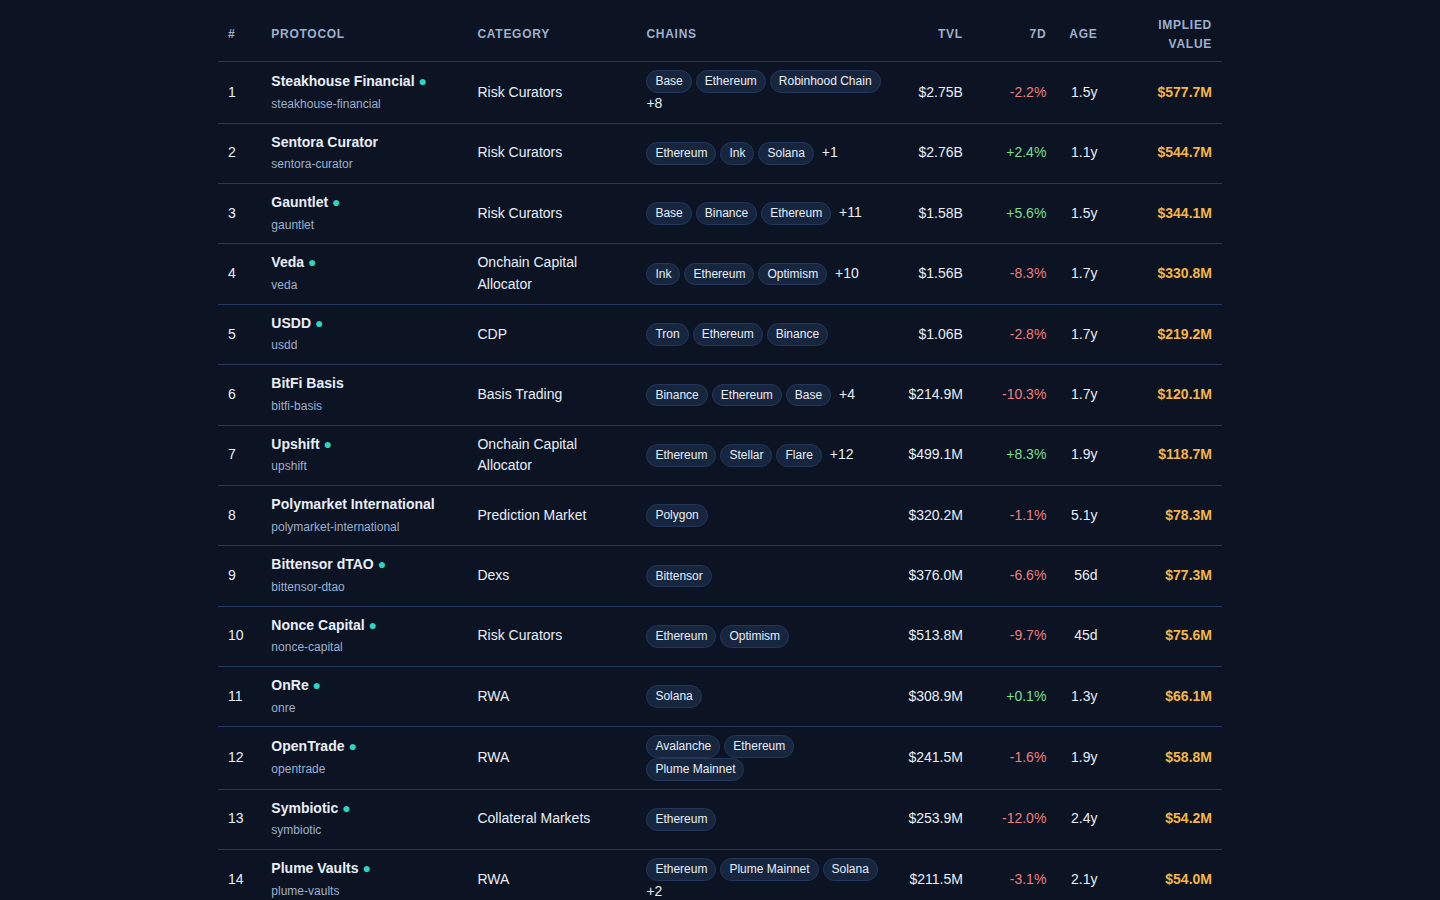
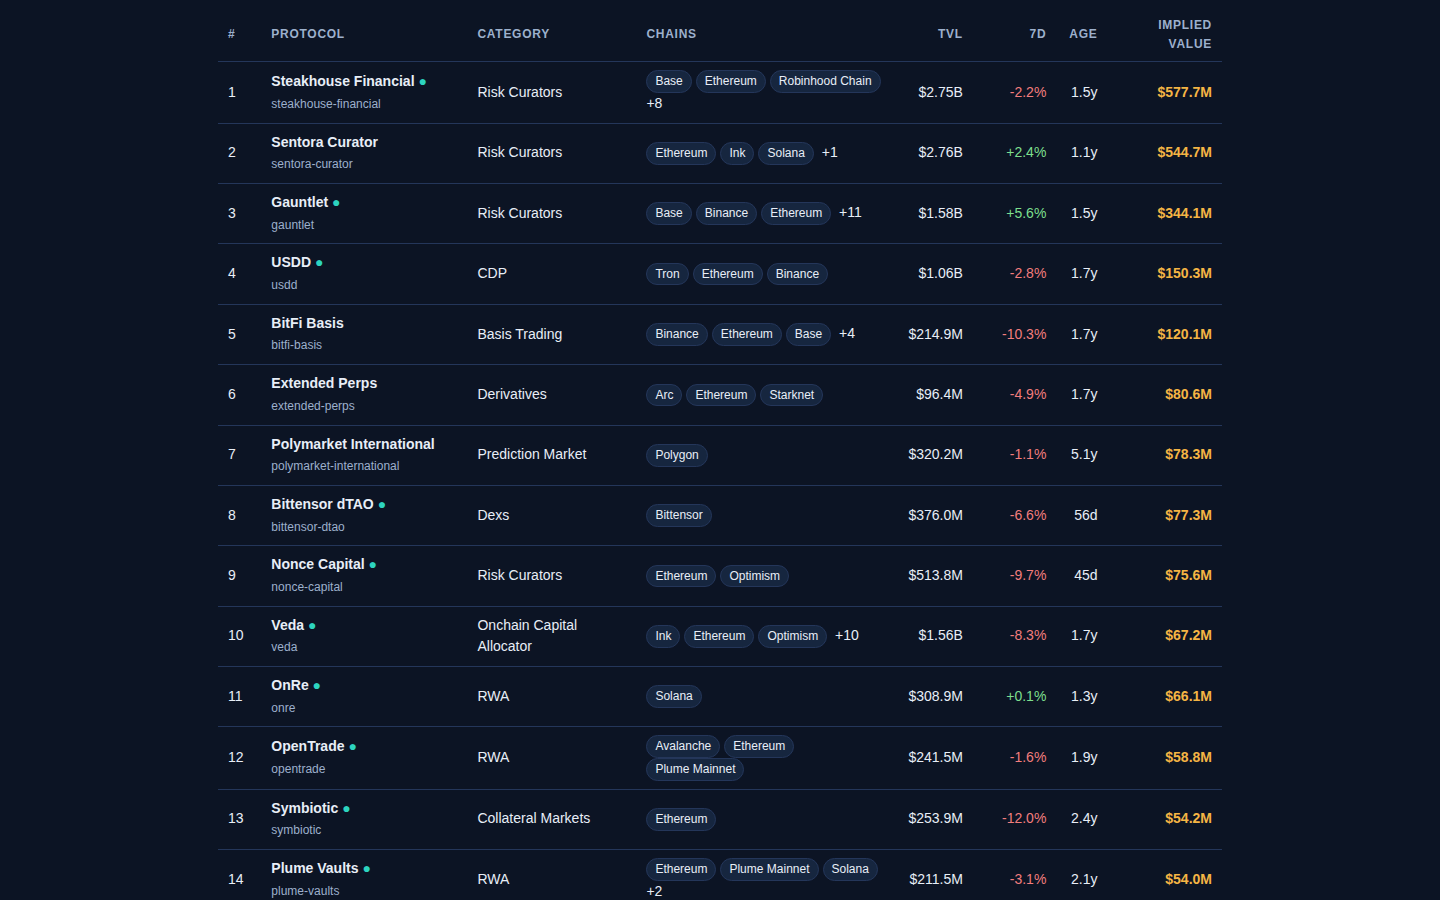
radar-3: exclude Cross Chain Bridge, calibrate with 2 peers, fix sort validation and coverage stats
- EXCLUDED_CATEGORIES gains Cross Chain Bridge (Circle Gateway ranked #21
  against the entry's own stated rule); board 198 -> 197 rows, no bridge
  category left on the board
- category_min_peers 4 -> 2: 22 of 35 categories now price off their own
  live-token median instead of 10; fallback rows 112 -> 65 of the board
- CalibrationRow carries raw_multiple; the dashboard shows a measured
  median clamped to [0.05, 1.00] as raw -> applied
- farm plans: CDP mints against collateral, uncollateralized lending no
  longer borrows against a supply that does not exist, Yield Aggregator
  takes the vault action, and Farm / CeDeFi / Anchor BTC / OTC / Card /
  Decentralized BTC / Liquidity Manager get their own first actions
- dashboard: unknown ?sort= falls back to implied instead of throwing,
  Watchlist covered counts real coverage, detail view labels a
  whole-market-median multiple
- calibrate() shares one isLiveToken predicate with liveRows() and skips
  null categories; main.ts refuses 5 screenshots as well as fewer than 3

diff --git a/lib/model.ts b/lib/model.ts
@@ -10,10 +10,10 @@
 // A wrapped, staked or bridged product of a token that already trades is not
 // ranked: WBTC is Bitcoin on Ethereum, staked ETH is ETH, a bridge moves a
 // token that exists. The board leaves those out by the same rule the
-// watchlist itself uses: their category (Bridge, Canonical Bridge, Liquid
-// Staking, Liquid Restaking, Restaked BTC, CEX), a wrapped / staked / staking
-// word in the name, an exchange's name at the start of it, or a version
-// marker at its end.
+// watchlist itself uses: their category (Bridge, Cross Chain Bridge,
+// Canonical Bridge, Liquid Staking, Liquid Restaking, Restaked BTC, CEX), a
+// wrapped / staked / staking word in the name, an exchange's name at the
+// start of it, or a version marker at its end.
 //
 // Implied value follows only from the snapshot's own figures, and the one
 // number the starter fixed by hand is now read off the market inside the
@@ -24,13 +24,13 @@
 // protocol name is ever special-cased: the same function scores every row.
 //
 //   baseMultiple = median(mcap / tvl) of live-token peers in the category
-//                  (whole-market median when the category has < 4 peers),
+//                  (whole-market median when the category has < 2 peers),
 //                  clamped to [0.05, 1.00]
 //   growth       = clamp(change_7d, -60, 120) per cent
 //   growthMult   = 1 + (growth / 100) x 0.5
 //   maturity     = 0.6 + min(age_days, 1095) / 1095 x 0.4
 //                  (age unknown: 365 days)
-//   breadth      = 1 + min(chains - 1, 4) x 0.02
+//   breadth      = 1 + min(max(chains - 1, 0), 4) x 0.02
 //   implied      = max(1, round(tvl x baseMultiple x growthMult
 //                                x maturity x breadth))
 
@@ -83,13 +83,13 @@ export const MODEL: ModelConstants = {
   unknown_age_days: 365,
   breadth_step: 0.02,
   breadth_cap_chains: 4,
-  category_min_peers: 4,
+  category_min_peers: 2,
   multiple_floor: 0.05,
   multiple_cap: 1.0,
 };
 
 /** The model's version label: the dashboard names it and the rules quote it. */
-export const MODEL_VERSION = 'radar-2';
+export const MODEL_VERSION = 'radar-3';
 
 /** How many live-token protocols the Live token view carries, by market cap. */
 export const LIVE_ROWS = 24;
@@ -98,6 +98,7 @@ export const LIVE_ROWS = 24;
 export interface CalibrationRow {
   category: string;
   multiple: number;
+  raw_multiple: number;
   peers: number;
 }
 
@@ -227,11 +228,11 @@ export function calibrate(snapshot: Snapshot, model: ModelConstants = MODEL): Ca
   const byCategory = new Map<string, number[]>();
   const all: number[] = [];
   for (const p of snapshot.protocols) {
-    if (p.mcap_usd === null || p.tvl_usd <= 0 || p.category === 'CEX') continue;
-    if (p.gecko_id === null && p.symbol === null) continue;
-    const ratio = p.mcap_usd / p.tvl_usd;
+    if (!isLiveToken(p) || p.tvl_usd <= 0 || p.category === 'CEX') continue;
+    const ratio = p.mcap_usd! / p.tvl_usd;
     if (!Number.isFinite(ratio) || ratio <= 0) continue;
     all.push(ratio);
+    if (p.category === null) continue;
     const list = byCategory.get(p.category) ?? [];
     list.push(ratio);
     byCategory.set(p.category, list);
@@ -239,11 +240,15 @@ export function calibrate(snapshot: Snapshot, model: ModelConstants = MODEL): Ca
   const clamp = (v: number): number => Math.min(model.multiple_cap, Math.max(model.multiple_floor, v));
   const global = all.length > 0 ? clamp(median(all)) : 0.25;
   const categories: CalibrationRow[] = [...byCategory.entries()]
-    .map(([category, ratios]) => ({
-      category,
-      multiple: ratios.length >= model.category_min_peers ? clamp(median(ratios)) : global,
-      peers: ratios.length,
-    }))
+    .map(([category, ratios]) => {
+      const raw = median(ratios);
+      return {
+        category,
+        raw_multiple: round4(raw),
+        multiple: ratios.length >= model.category_min_peers ? clamp(raw) : global,
+        peers: ratios.length,
+      };
+    })
     .sort((a, b) => b.multiple - a.multiple || (a.category < b.category ? -1 : 1));
   return { global_multiple: global, categories };
 }
@@ -278,7 +283,7 @@ export function impliedValue(
 const VERSIONED = /\s(V\d+(\.\d+)?|v\d+(\.\d+)?|\d+\.\d+)$/;
 
 /** Categories the watchlist's own rule leaves out: bridged, staked and exchange products. */
-const EXCLUDED_CATEGORIES = new Set(['Bridge', 'Canonical Bridge', 'Liquid Staking', 'Liquid Restaking', 'Restaked BTC', 'CEX']);
+const EXCLUDED_CATEGORIES = new Set(['Bridge', 'Cross Chain Bridge', 'Canonical Bridge', 'Liquid Staking', 'Liquid Restaking', 'Restaked BTC', 'CEX']);
 
 /** A whole wrapped / staked / staking word in a name. */
 const WRAPPED_WORD = /\b(wrapped|staked|staking)\b/i;
@@ -289,6 +294,11 @@ const EXCHANGE_PREFIXES = ['Binance', 'Coinbase', 'Bybit', 'Kraken', 'Bitget', '
 /** Whether a protocol records no token at all. */
 export function isPreToken(p: SnapshotProtocol): boolean {
   return p.mcap_usd === null && p.gecko_id === null && p.symbol === null;
+}
+
+/** Whether a protocol already has a token trading: a market cap plus a CoinGecko id or a symbol. */
+export function isLiveToken(p: SnapshotProtocol): boolean {
+  return p.mcap_usd !== null && (p.gecko_id !== null || p.symbol !== null);
 }
 
 /** Why a pre-token protocol is still not one the board ranks, or null when it is rankable. */
@@ -397,8 +407,10 @@ function holdDaysFor(age: number | null): number {
 function actionFor(p: SnapshotProtocol, capital: number, chain: string): string {
   const c = (p.category ?? '').toLowerCase();
   const name = p.name;
-  if (c.includes('lend') || c.includes('cdp') || c.includes('collateral')) return `Supply $${capital} of USDC to ${name} on ${chain} and keep the position open.`;
-  if (c.includes('dex') || c.includes('yield aggregator')) return `Provide $${capital} of liquidity to ${name}'s main pool on ${chain} and keep the position open.`;
+  if (c.includes('cdp')) return `Lock $${capital * 2} of collateral through ${name} on ${chain} and mint $${capital} of its stable asset.`;
+  if (c.includes('uncollateralized')) return `Deposit $${capital} into ${name}'s uncollateralized lending pool on ${chain} and keep the position open.`;
+  if (c.includes('lend') || c.includes('collateral')) return `Supply $${capital} of USDC to ${name} on ${chain} and keep the position open.`;
+  if (c.includes('dex')) return `Provide $${capital} of liquidity to ${name}'s main pool on ${chain} and keep the position open.`;
   if (c.includes('yield') || c.includes('leveraged farm')) return `Deposit $${capital} into ${name}'s highest-TVL vault on ${chain} and keep the shares.`;
   if (c.includes('staking') || c.includes('restak')) return `Stake $${capital} of the chain's staking asset through ${name} and keep the receipt.`;
   if (c.includes('perpetual') || c.includes('derivative')) return `Deposit $${capital} of USDC as margin on ${name} and open one small hedge.`;
@@ -412,6 +424,13 @@ function actionFor(p: SnapshotProtocol, capital: number, chain: string): string 
   if (c.includes('payment')) return `Send one $${capital} payment through ${name} on ${chain} and keep the receipt.`;
   if (c.includes('governance')) return `Delegate or vote with $${capital} of voting power through ${name} on ${chain}.`;
   if (c.includes('index')) return `Buy $${capital} of ${name}'s index token on ${chain} and hold it.`;
+  if (c.includes('farm')) return `Deposit $${capital} into ${name}'s farm on ${chain} and keep the position open.`;
+  if (c.includes('cedefi')) return `Deposit $${capital} into ${name}'s CeDeFi vault on ${chain} and keep the shares.`;
+  if (c.includes('anchor')) return `Lock $${capital} of BTC through ${name} on ${chain} and keep the receipt.`;
+  if (c.includes('otc')) return `Place a $${capital} trade through ${name}'s OTC desk on ${chain} and keep the receipt.`;
+  if (c.includes('card')) return `Load $${capital} onto ${name}'s card and make one purchase.`;
+  if (c.includes('decentralized btc')) return `Mint $${capital} of decentralized BTC through ${name} on ${chain} and hold it.`;
+  if (c.includes('liquidity manager')) return `Deposit $${capital} into ${name}'s managed liquidity vault on ${chain} and keep the shares.`;
   return `Deposit $${capital} of USDC into ${name} on ${chain} and keep the position open.`;
 }
 
@@ -419,8 +438,10 @@ function actionFor(p: SnapshotProtocol, capital: number, chain: string): string 
 function secondActionFor(p: SnapshotProtocol, capital: number, chain: string): string {
   const c = (p.category ?? '').toLowerCase();
   const name = p.name;
-  if (c.includes('lend') || c.includes('cdp') || c.includes('collateral')) return `Borrow $${Math.max(10, Math.round(capital / 5))} against the supply and repay it within the week.`;
-  if (c.includes('dex') || c.includes('yield aggregator')) return `Swap $25 through the same pool on ${chain} so the wallet shows both providing and trading.`;
+  if (c.includes('cdp')) return `Check the collateral ratio on ${name} and top it up if it falls below the protocol's minimum.`;
+  if (c.includes('uncollateralized')) return `Check ${name}'s loan book once and confirm the repayments are on schedule.`;
+  if (c.includes('lend') || c.includes('collateral')) return `Borrow $${Math.max(10, Math.round(capital / 5))} against the supply and repay it within the week.`;
+  if (c.includes('dex')) return `Swap $25 through the same pool on ${chain} so the wallet shows both providing and trading.`;
   if (c.includes('yield') || c.includes('leveraged farm')) return `Harvest the vault's yield once and compound it back into the same vault.`;
   if (c.includes('staking') || c.includes('restak')) return `Claim the staking rewards once and restake them through ${name}.`;
   if (c.includes('perpetual') || c.includes('derivative')) return `Place one limit order on ${name} and let it fill or cancel it after a day.`;
@@ -484,7 +505,7 @@ export function farmSteps(p: SnapshotProtocol, age: number | null): FarmStep[] {
 /** The live-token protocols, by market cap, for the dashboard's Live token view. */
 export function liveRows(snapshot: Snapshot): LiveRow[] {
   return snapshot.protocols
-    .filter((p) => !isPreToken(p) && p.category !== 'CEX')
+    .filter((p) => isLiveToken(p) && p.category !== 'CEX')
     .sort((a, b) => (b.mcap_usd ?? 0) - (a.mcap_usd ?? 0) || b.tvl_usd - a.tvl_usd)
     .slice(0, LIVE_ROWS)
     .map((p) => ({

diff --git a/dashboard/app.js b/dashboard/app.js
@@ -39,21 +39,28 @@
   $('modelVersion').textContent = D.model_version;
   $('modelVersion2').textContent = D.model_version;
   $('boardSize').textContent = D.board_size;
-  $('statWatch').textContent = D.watchlist_size + ' / ' + D.watchlist_size;
+  var covered = rows.filter(function (r) { return watchSet.has(r.slug); }).length;
+  $('statWatch').textContent = covered + ' / ' + D.watchlist_size;
   $('statRows').textContent = D.board_size;
   $('statEarly').textContent = D.early_size;
   $('statTop').textContent = money(rows[0] ? rows[0].implied_value_usd : 0);
 
-  // Calibration table: category multiples read off this snapshot.
+  // Calibration table: category multiples read off this snapshot. An arrow
+  // shows a measured median clamped to the 0.05-1.00 band; a star means the
+  // category had too few live-token peers, so the whole-market median is used.
   var calib = D.calibration;
   $('calibBody').innerHTML = calib.categories.map(function (c) {
-    return '<tr><td>' + esc(c.category) + '</td><td>' + c.multiple.toFixed(3) +
+    var mult = c.multiple.toFixed(3);
+    if (c.raw_multiple !== undefined && Math.abs(c.raw_multiple - c.multiple) > 0.0005) {
+      mult = c.raw_multiple.toFixed(3) + ' → ' + mult;
+    }
+    return '<tr><td>' + esc(c.category) + '</td><td>' + mult +
       (c.peers < D.model.category_min_peers ? ' *' : '') + '</td><td>' + c.peers + '</td></tr>';
   }).join('') + '<tr><td>Whole market (fallback)</td><td>' + calib.global_multiple.toFixed(3) +
     '</td><td>&mdash;</td></tr>';
   var note = document.createElement('p');
   note.className = 'fine';
-  note.textContent = '* Fewer than ' + D.model.category_min_peers + ' live-token peers: the whole-market median is used instead.';
+  note.textContent = '* Fewer than ' + D.model.category_min_peers + ' live-token peers: the whole-market median is used instead. An arrow shows a measured median clamped to the 0.05–1.00 band.';
   $('calibrationBox').appendChild(note);
 
   // Filter controls.
@@ -83,7 +90,7 @@
       if (watchOnly && !watchSet.has(r.slug)) return false;
       return true;
     });
-    var sort = $('sort').value;
+    var sort = ['implied', 'tvl', 'growth', 'age', 'name'].indexOf($('sort').value) >= 0 ? $('sort').value : 'implied';
     var key = {
       implied: function (r) { return -r.implied_value_usd; },
       tvl: function (r) { return -r.tvl_usd; },
@@ -122,13 +129,16 @@
     if (!r) return;
     selected = slug;
     var breadth = 1 + Math.min(Math.max(r.chains.length - 1, 0), 4) * 0.02;
+    var cal = calib.categories.filter(function (c) { return c.category === r.category; })[0];
+    var multNote = (cal && cal.peers < D.model.category_min_peers)
+      ? ' (whole-market median — fewer than ' + D.model.category_min_peers + ' live peers)' : '';
     $('dName').textContent = '#' + r.rank + ' ' + r.name;
     $('dMeta').textContent = (r.category || 'Uncategorised') + ' · ' + r.chains.join(', ') +
       ' · TVL ' + money(r.tvl_usd) + ' · 7d ' + pct(r.change_7d) +
       ' · tracked since ' + (r.listed_at || 'unknown') + (watchSet.has(r.slug) ? ' · on the watchlist' : '');
     $('dBreak').innerHTML =
       '<div><dt>Implied value</dt><dd>' + money(r.implied_value_usd) + '</dd></div>' +
-      '<div><dt>Category multiple</dt><dd>' + r.base_multiple.toFixed(3) + '×</dd></div>' +
+      '<div><dt>Category multiple</dt><dd>' + r.base_multiple.toFixed(3) + '×' + multNote + '</dd></div>' +
       '<div><dt>Growth multiplier</dt><dd>' + r.growth_multiplier.toFixed(2) + '×</dd></div>' +
       '<div><dt>Maturity multiplier</dt><dd>' + r.maturity_multiplier.toFixed(2) + '×</dd></div>' +
       '<div><dt>Chain breadth</dt><dd>' + breadth.toFixed(2) + '×</dd></div>';

diff --git a/main.ts b/main.ts
@@ -1,7 +1,7 @@
 // Token radar entry (Node 22, standard library only).
 //
 // Reads the sealed snapshot from /input/snapshot.json (or --input <file|dir>),
-// scores every rankable pre-token protocol with the radar-2 model in
+// scores every rankable pre-token protocol with the radar-3 model in
 // lib/model.ts, writes the ranked board to /output/board.json, and copies this
 // repository's dashboard/ and screenshots/ to /output. Last, it writes
 // /output/dossier.json, the summary the judge reads, with the vendored
@@ -72,8 +72,8 @@ function copyFiles(from: string, to: string): string[] {
 
 copyFiles(join(here, 'dashboard'), join(out, 'dashboard'));
 const shots = copyFiles(join(here, 'screenshots'), join(out, 'screenshots'));
-if (shots.length < 3) {
-  process.stderr.write(`token radar: screenshots/ holds ${shots.length} image${shots.length === 1 ? '' : 's'}: hand in 3, the board, a detail view and a filtered view\n`);
+if (shots.length < 3 || shots.length > 4) {
+  process.stderr.write(`token radar: screenshots/ holds ${shots.length} image${shots.length === 1 ? '' : 's'}: hand in 3 or 4, the board, a detail view and a filtered view\n`);
   process.exit(1);
 }
 for (const name of shots) {
